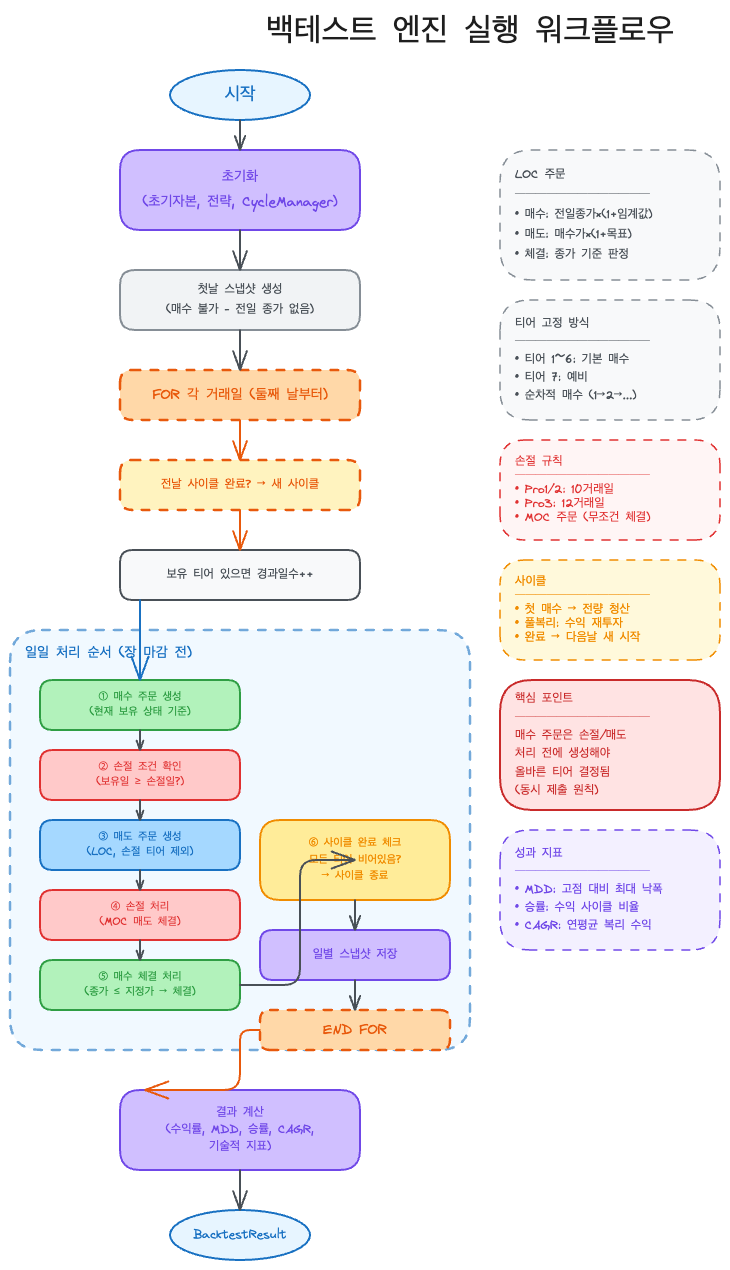
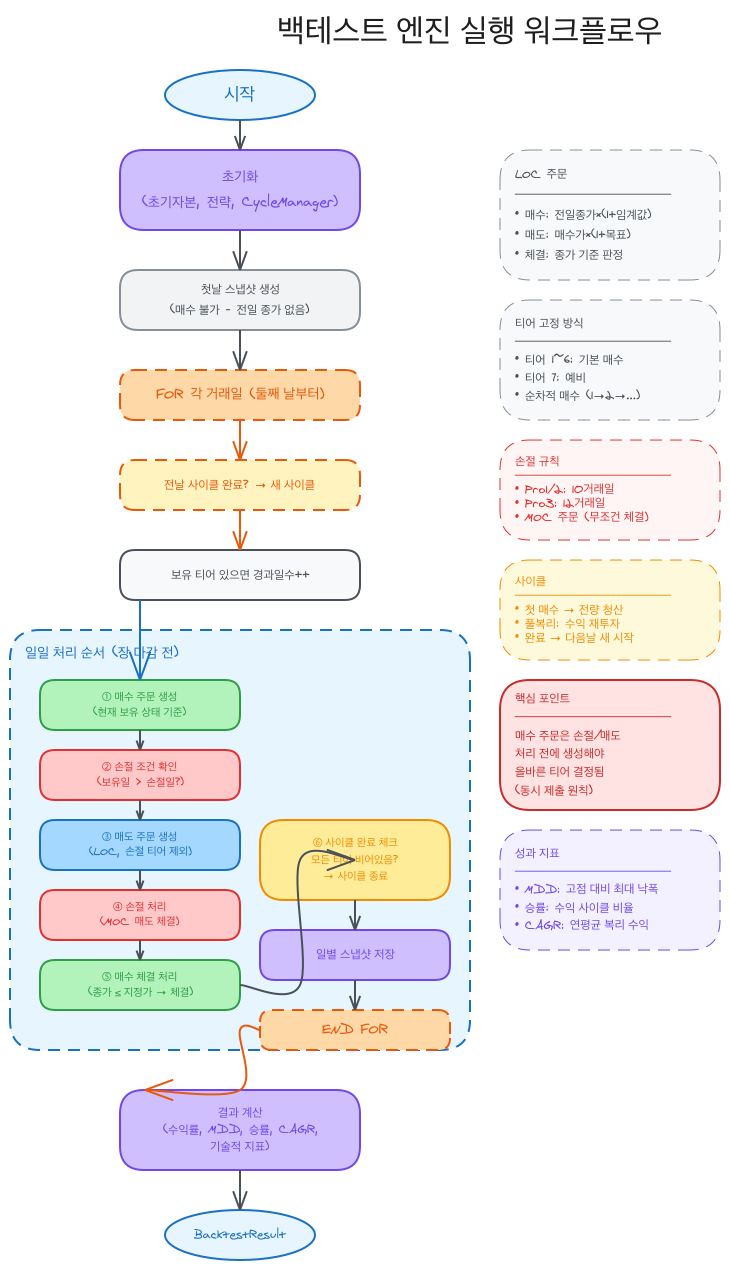
fix: calculateTradingDays 시작일 포함으로 변경 및 보유기간 표시 수정
- calculateTradingDays: 시작일 다음날부터 → 시작일 포함 카운트로 변경
- orders.ts: 손절 비교 >= → > (수학적 동치, 결과 변경 없음)
- TierHoldingsTable: +1 임시 패치 제거 (함수가 시작일 포함하므로)
- backtest-engine 다이어그램: 보유일 ≥ 손절일 → 보유일 > 손절일

diff --git a/src/utils/trading-core.ts b/src/utils/trading-core.ts
@@ -133,9 +133,9 @@ export function getPreviousTradingDate(date: string): string {
 
 /**
  * 두 날짜 사이의 거래일 수 계산 (주말 제외)
- * 시작일 다음날부터 종료일까지의 거래일 수
+ * 시작일부터 종료일까지의 거래일 수 (시작일 포함)
  * UTC 기준으로 계산하여 타임존 문제 방지
- * 예: 월요일 시작 → 다음 월요일 종료 = 5 거래일 (화~금 + 월)
+ * 예: 월요일 시작 → 다음 월요일 종료 = 6 거래일 (월~금 + 월)
  *
  * @param startDate - 시작 날짜 (YYYY-MM-DD)
  * @param endDate - 종료 날짜 (YYYY-MM-DD)
@@ -149,7 +149,6 @@ export function calculateTradingDays(startDate: string, endDate: string): number
 
   let tradingDays = 0;
   const current = new Date(start);
-  current.setUTCDate(current.getUTCDate() + 1); // 시작일 다음날부터 계산
 
   while (current <= end) {
     const day = current.getUTCDay();

diff --git a/src/database/trading/orders.ts b/src/database/trading/orders.ts
@@ -172,10 +172,10 @@ export async function generateDailyOrders(
     // 1. 보유 중인 티어들의 매도 주문 생성 (손절 또는 일반 매도)
     for (const holding of holdings) {
       if (holding.shares > 0 && holding.buyPrice && holding.buyDate) {
-        // 보유일 계산 (거래일 기준)
+        // 보유일 계산 (거래일 기준, 매수일 포함)
         const holdingDays = calculateTradingDays(holding.buyDate, date);
 
-        if (holdingDays >= stopLossDay) {
+        if (holdingDays > stopLossDay) {
           // 손절일 도달: MOC 주문 (시장가, 무조건 체결)
           const result = await tx
             .insert(dailyOrders)

diff --git a/src/components/trading/TierHoldingsTable.tsx b/src/components/trading/TierHoldingsTable.tsx
@@ -42,7 +42,7 @@ function calculateHoldingDays(buyDate: string | null): string {
   // 오늘 날짜를 YYYY-MM-DD 형식으로
   const today = new Date();
   const todayStr = today.toISOString().slice(0, 10);
-  // 거래일(영업일) 기준으로 보유 기간 계산 (주말 제외)
+  // 거래일(영업일) 기준으로 보유 기간 계산 (주말 제외, 매수일 포함)
   const tradingDays = calculateTradingDays(buyDate, todayStr);
   return `${tradingDays}일`;
 }
